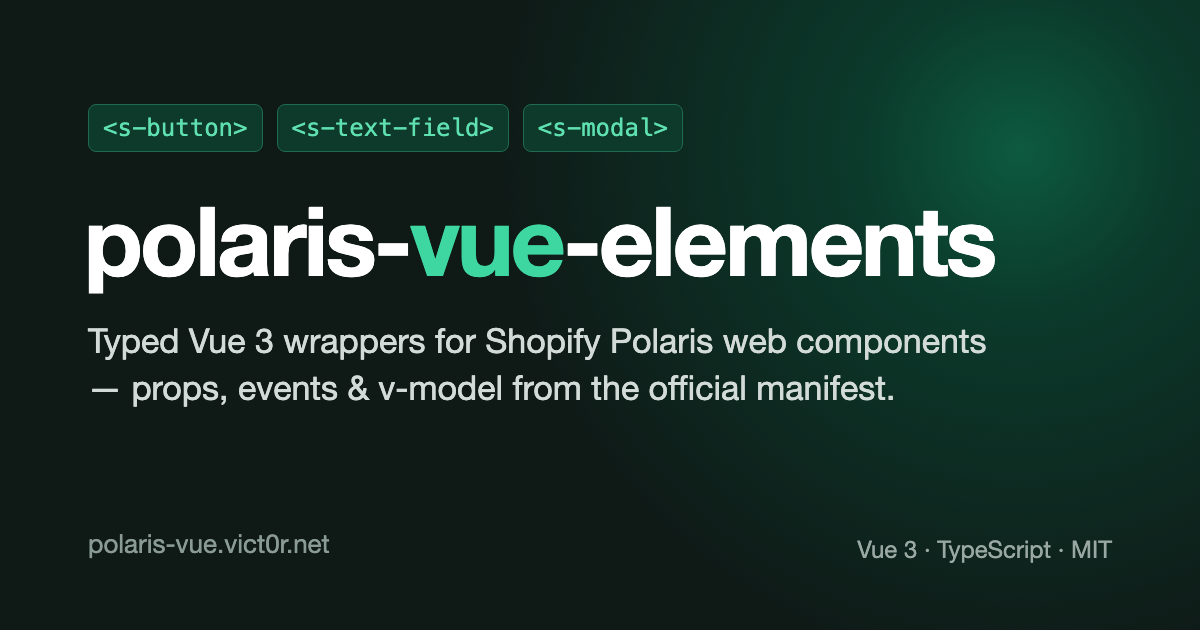
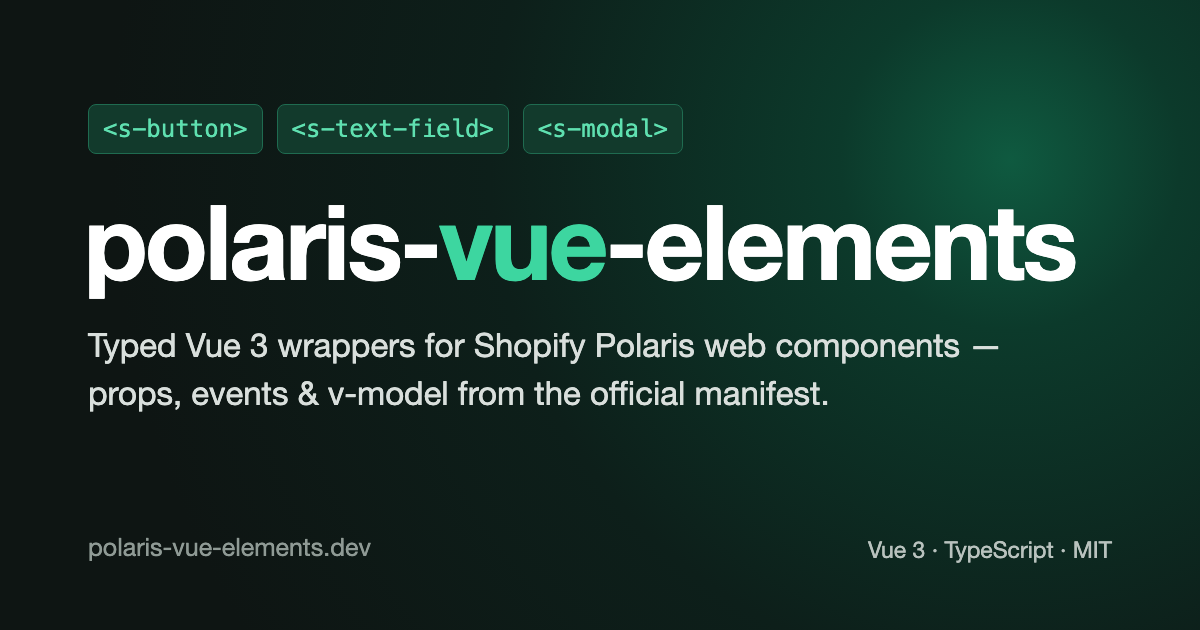
docs: move the docs site to polaris-vue-elements.dev
The site URL (canonical, Open Graph, sitemap, JSON-LD), robots.txt,
README, CHANGELOG and package.json homepage now point at the new domain.
og.png is re-rendered with the new URL. polaris-vue.vict0r.net
301-redirects to the same path on the new domain.

Claude-Session: https://claude.ai/code/session_01FuHTJ2qiVB3aHi4F9DCuN5

diff --git a/docs/.vitepress/config.ts b/docs/.vitepress/config.ts
@@ -12,7 +12,7 @@ import componentsSidebar from './components-sidebar.json'
 
 // Public origin of the deployed docs. Used for canonical URLs, Open Graph tags,
 // JSON-LD and the generated sitemap — keep it in sync with the Cloudflare route.
-const SITE_URL = 'https://polaris-vue.vict0r.net'
+const SITE_URL = 'https://polaris-vue-elements.dev'
 const SITE_NAME = 'polaris-vue-elements'
 const SITE_DESCRIPTION =
   'Typed Vue 3 wrapper components for Shopify Polaris web components — props, events and v-model generated from the official Custom Elements Manifest.'

diff --git a/README.md b/README.md
@@ -2,7 +2,7 @@
 
 Typed Vue 3 wrapper components for [Shopify Polaris web components](https://shopify.dev/docs/api/app-home/web-components) — the `s-*` custom elements used to build Shopify App Home (embedded admin) apps.
 
-**📖 Documentation: [polaris-vue.vict0r.net](https://polaris-vue.vict0r.net/)** — guides, known quirks, and live examples for all 62 components.
+**📖 Documentation: [polaris-vue-elements.dev](https://polaris-vue-elements.dev/)** — guides, known quirks, and live examples for all 62 components.
 
 The Polaris runtime itself is loaded from Shopify's CDN (the `polaris-2.js` stable channel receives compatible updates automatically). This library gives you an idiomatic, fully typed Vue surface on top of it:
 
@@ -28,7 +28,7 @@ The wrappers are presentational only — your host app must load the Polaris run
 <script src="https://cdn.shopify.com/shopifycloud/polaris-2.js"></script>
 ```
 
-`polaris-2.js` is Shopify's stable channel and brings the admin's new visual design. Apps still on `polaris-1.js` keep working — 2.0's component API is the same as 1.1 apart from a few additions. See [Polaris 2.0 and the new admin design](https://polaris-vue.vict0r.net/guide/getting-started#polaris-2-0-and-the-new-admin-design).
+`polaris-2.js` is Shopify's stable channel and brings the admin's new visual design. Apps still on `polaris-1.js` keep working — 2.0's component API is the same as 1.1 apart from a few additions. See [Polaris 2.0 and the new admin design](https://polaris-vue-elements.dev/guide/getting-started#polaris-2-0-and-the-new-admin-design).
 
 ```ts
 // vite.config.ts
@@ -57,9 +57,9 @@ const name = ref('')
 </template>
 ```
 
-Prefer writing Polaris's own `<s-button>` tags? Add `"types": ["polaris-vue-elements/elements"]` to your `tsconfig.json` and Volar / `vue-tsc` type-check raw `<s-*>` tags too (types only; `v-model` stays wrapper-only). See [Typing raw `<s-*>` tags](https://polaris-vue.vict0r.net/guide/getting-started#_7-typing-raw-s-tags-optional).
+Prefer writing Polaris's own `<s-button>` tags? Add `"types": ["polaris-vue-elements/elements"]` to your `tsconfig.json` and Volar / `vue-tsc` type-check raw `<s-*>` tags too (types only; `v-model` stays wrapper-only). See [Typing raw `<s-*>` tags](https://polaris-vue-elements.dev/guide/getting-started#_7-typing-raw-s-tags-optional).
 
-Full documentation — guides, known quirks, and generated reference pages with live examples for all 62 components — is at **[polaris-vue.vict0r.net](https://polaris-vue.vict0r.net/)** (source in `docs/`, `npm run docs:dev` to run locally).
+Full documentation — guides, known quirks, and generated reference pages with live examples for all 62 components — is at **[polaris-vue-elements.dev](https://polaris-vue-elements.dev/)** (source in `docs/`, `npm run docs:dev` to run locally).
 
 ## Architecture
 

diff --git a/CHANGELOG.md b/CHANGELOG.md
@@ -6,7 +6,7 @@ All notable changes to `polaris-vue-elements` are documented here. The format is
 minor releases may include breaking changes, which are always called out below.
 
 Wrapper and type changes follow `@shopify/polaris-types`, whose major version matches the
-[Polaris CDN](https://polaris-vue.vict0r.net/guide/quirks)
+[Polaris CDN](https://polaris-vue-elements.dev/guide/quirks)
 major your app loads (`polaris-1.js`, `polaris-2.js`, …).
 
 ## [Unreleased]
